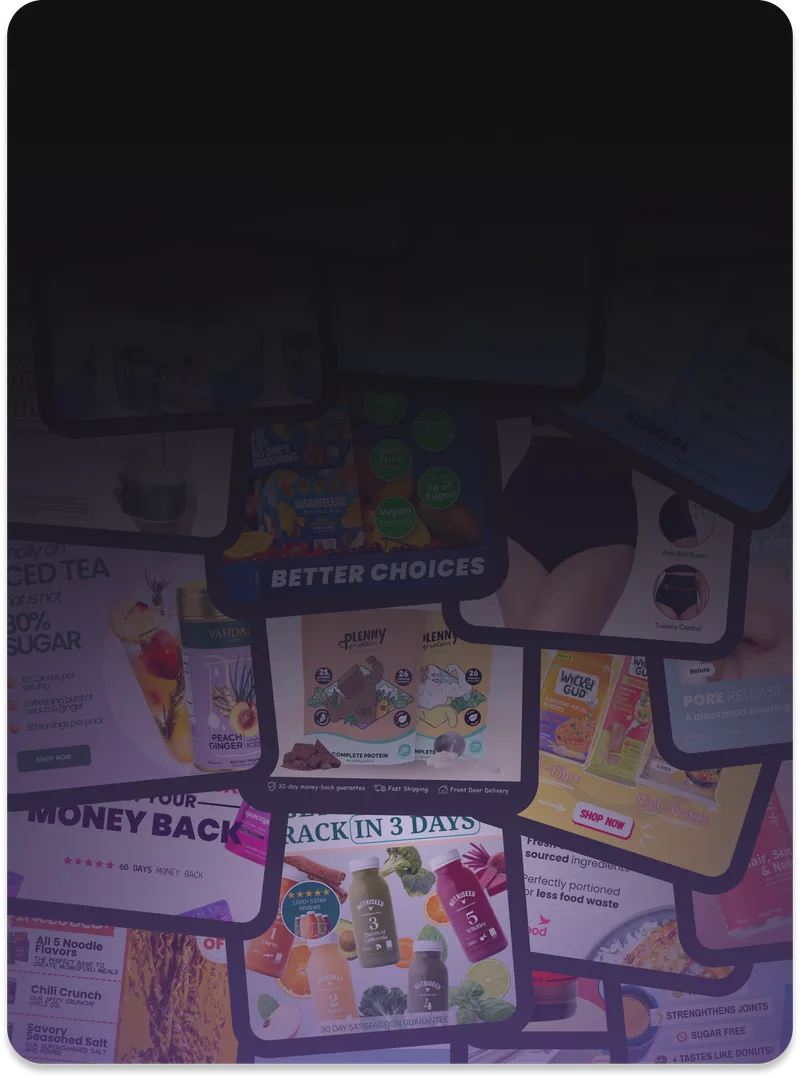
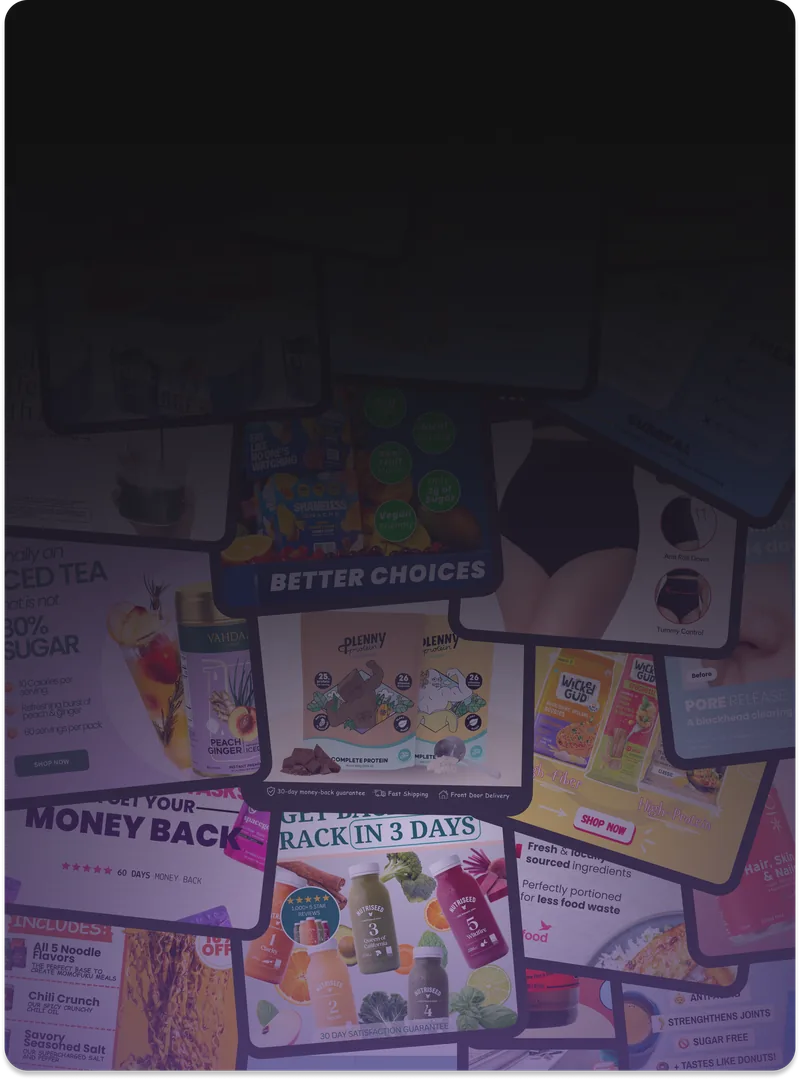
The Kandy chip, the 24/7 card and the monthly card take the supplied art
Desktop only (Žilvinas 2026-09-19):

- Kandy: chip-kandy.svg was a white rect with a 600px PNG embedded in
  it, going soft at 40 tall. The chip is now a live white pill (91 x 40,
  16 either side) holding the 1200-wide logo-red.webp with its flat
  #f3f3f3 ground keyed out to alpha and cropped to the ink, at 3x of the
  58 it draws at. 10 KB, the SVG's 86 KB is gone.
- 24/7 support: "24:7 background.png" (3924 x 2780, 6 MB) shipped as an
  800-wide webp, 12 KB, 2x what the card draws at. Drawn edge to edge:
  its "Need help?" pill already sits on the headline's 24px line, so the
  108.6% right-pinned oversizing that dragged the old art into place
  would now cut the pill off.
- 50+ monthly: "50+ new templates monthyl.png" (2768 x 3737, 9.6 MB) as
  the same 800 x 1080 webp the card was already framed for, 56 KB.

The phone keeps its own -phone files for both cards.

diff --git a/src/components/TemplateSections.tsx b/src/components/TemplateSections.tsx
@@ -1645,11 +1645,14 @@ export function TemplatesInside() {
               4x the 165 x 119 card, supplied already dimmed — so the 45%
               black this card used to lay over the desktop art is gone. */}
           <article
-            // md:bg oversized 108.6% and pinned right (client 2026-09-13): the
-            // art's baked "Need help?" pill sat 28px right of the headline's
-            // inset; sliding the art left puts the pill's left edge on the
-            // same 24px line as "24/7", as the reference card has it.
-            className={`${CARD} flex h-[119px] flex-col items-center justify-center bg-[image:var(--bg,none)] p-4 text-center md:h-auto md:min-h-[210px] md:items-start md:justify-start md:bg-[image:var(--bg-md,none)] md:bg-no-repeat md:bg-[length:108.6%_auto] md:bg-[position:right_center] md:p-6 md:text-left`}
+            // THE DESKTOP ART IS THE SUPPLIED "24:7 background.png" (Žilvinas
+            // 2026-09-19), a 3924 x 2780 master shipped as an 800-wide webp
+            // — 6 MB down to 12 KB, and 800 is 2x what the card draws at. It
+            // is drawn edge to edge (cover, centred): its "Need help?" pill
+            // already sits on the headline's 24px line, so the 108.6%
+            // right-pinned oversizing that dragged the OLD art into place
+            // would now cut the pill's left edge off.
+            className={`${CARD} flex h-[119px] flex-col items-center justify-center bg-[image:var(--bg,none)] p-4 text-center md:h-auto md:min-h-[210px] md:items-start md:justify-start md:bg-[image:var(--bg-md,none)] md:p-6 md:text-left`}
             data-bg="url(/images/templates/inside-support-phone.webp)"
             data-bg-md="url(/images/templates/inside-support.webp)"
           >
@@ -1748,6 +1751,9 @@ export function TemplatesInside() {
 
           {/* 50+ new templates monthly — the dimmed collage is the baked
               background, anchored to the card's bottom like the design.
+              Desktop art re-supplied 2026-09-19 ("50+ new templates
+              monthyl.png", 2768 x 3737, 9.6 MB) and shipped as the same
+              800 x 1080 webp the card was already framed for: 56 KB.
               PHONE has its own art (Žilvinas 2026-09-11), cropped off its
               drop shadow to the 345 x 222 card at 4x. Its fade to black is
               in the art, so the gradient that used to be laid over it here
@@ -2333,12 +2339,23 @@ function BrandChips({ brands }: { brands: readonly string[] }) {
                 </span>
                 {brand}
               </span>
+            ) : brand === "Kandy" ? (
+              /* KANDY IS THE SUPPLIED LOGO ON A LIVE PILL (Žilvinas 2026-09-19,
+                 "use these kandy"): chip-kandy.svg was a white rect with a
+                 600px PNG embedded in it, and at 40 tall the script's
+                 hairlines were going soft. The new file is the 1200-wide
+                 logo-red.webp with its flat #f3f3f3 ground keyed out to
+                 alpha and cropped to the ink, at 3x of the 58 it draws at —
+                 the artboard's 91 x 40 chip, 16 either side. */
+              <span className="flex h-10 items-center rounded-[10px] bg-white px-4">
+                <Img src="templates/chip-kandy.webp" alt="Kandy" width={58} />
+              </span>
             ) : (
               // eslint-disable-next-line @next/next/no-img-element
               <img
                 src={`/images/templates/chip-${brand.toLowerCase()}.svg`}
                 alt={brand}
-                width={brand === "Kandy" ? 88 : 172}
+                width={172}
                 height={40}
                 loading="lazy"
                 decoding="async"
